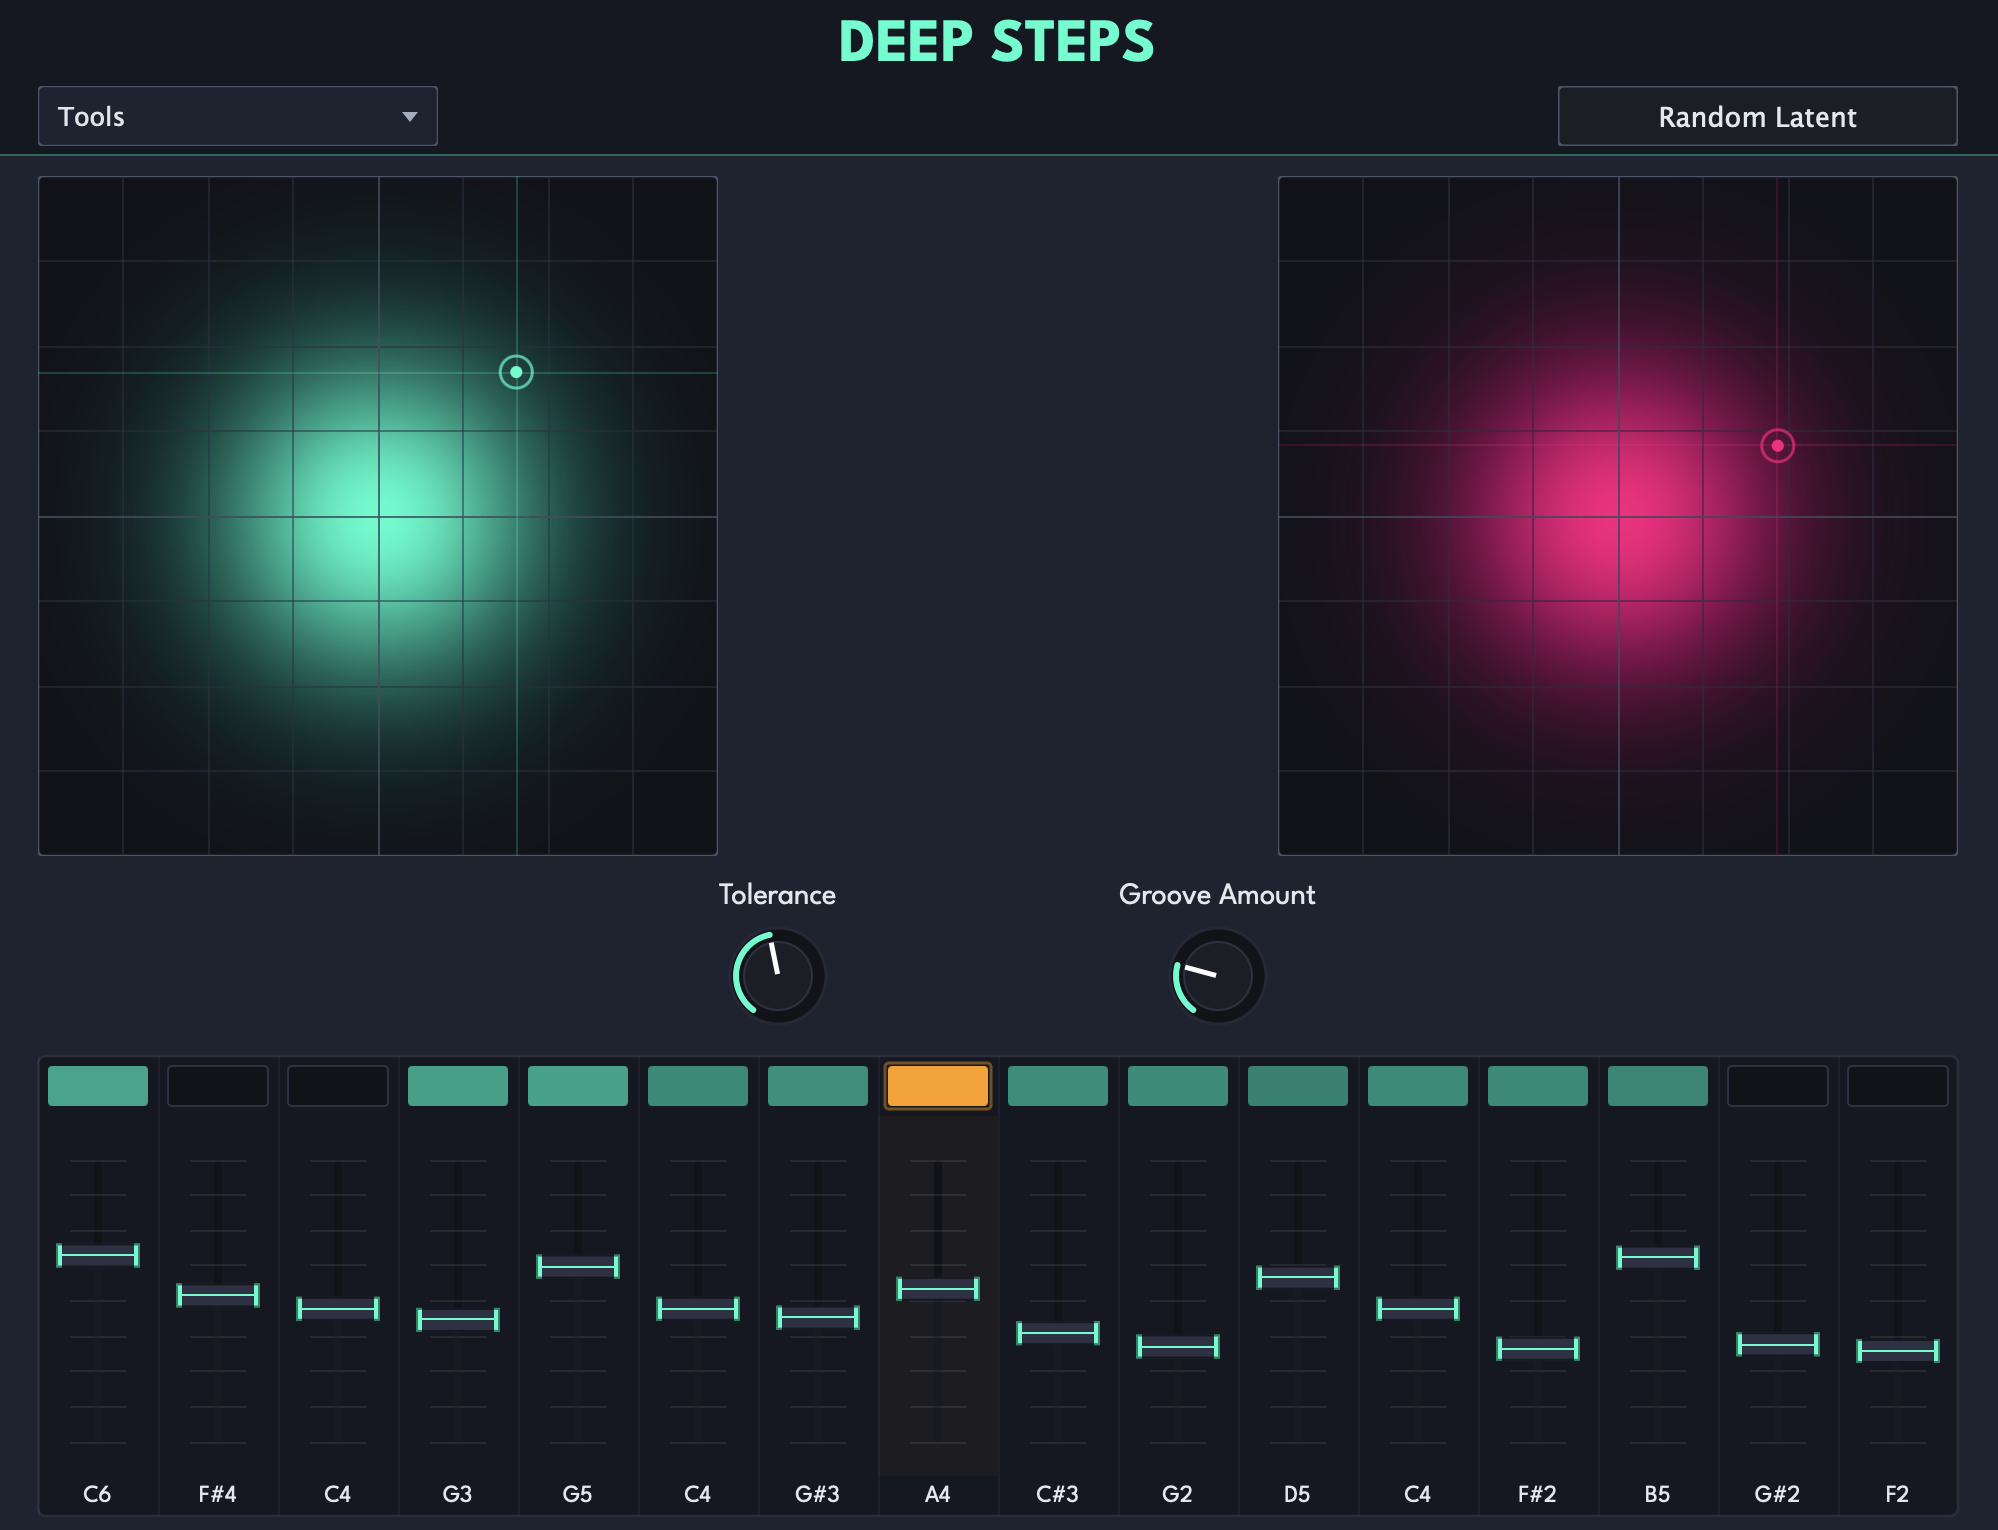
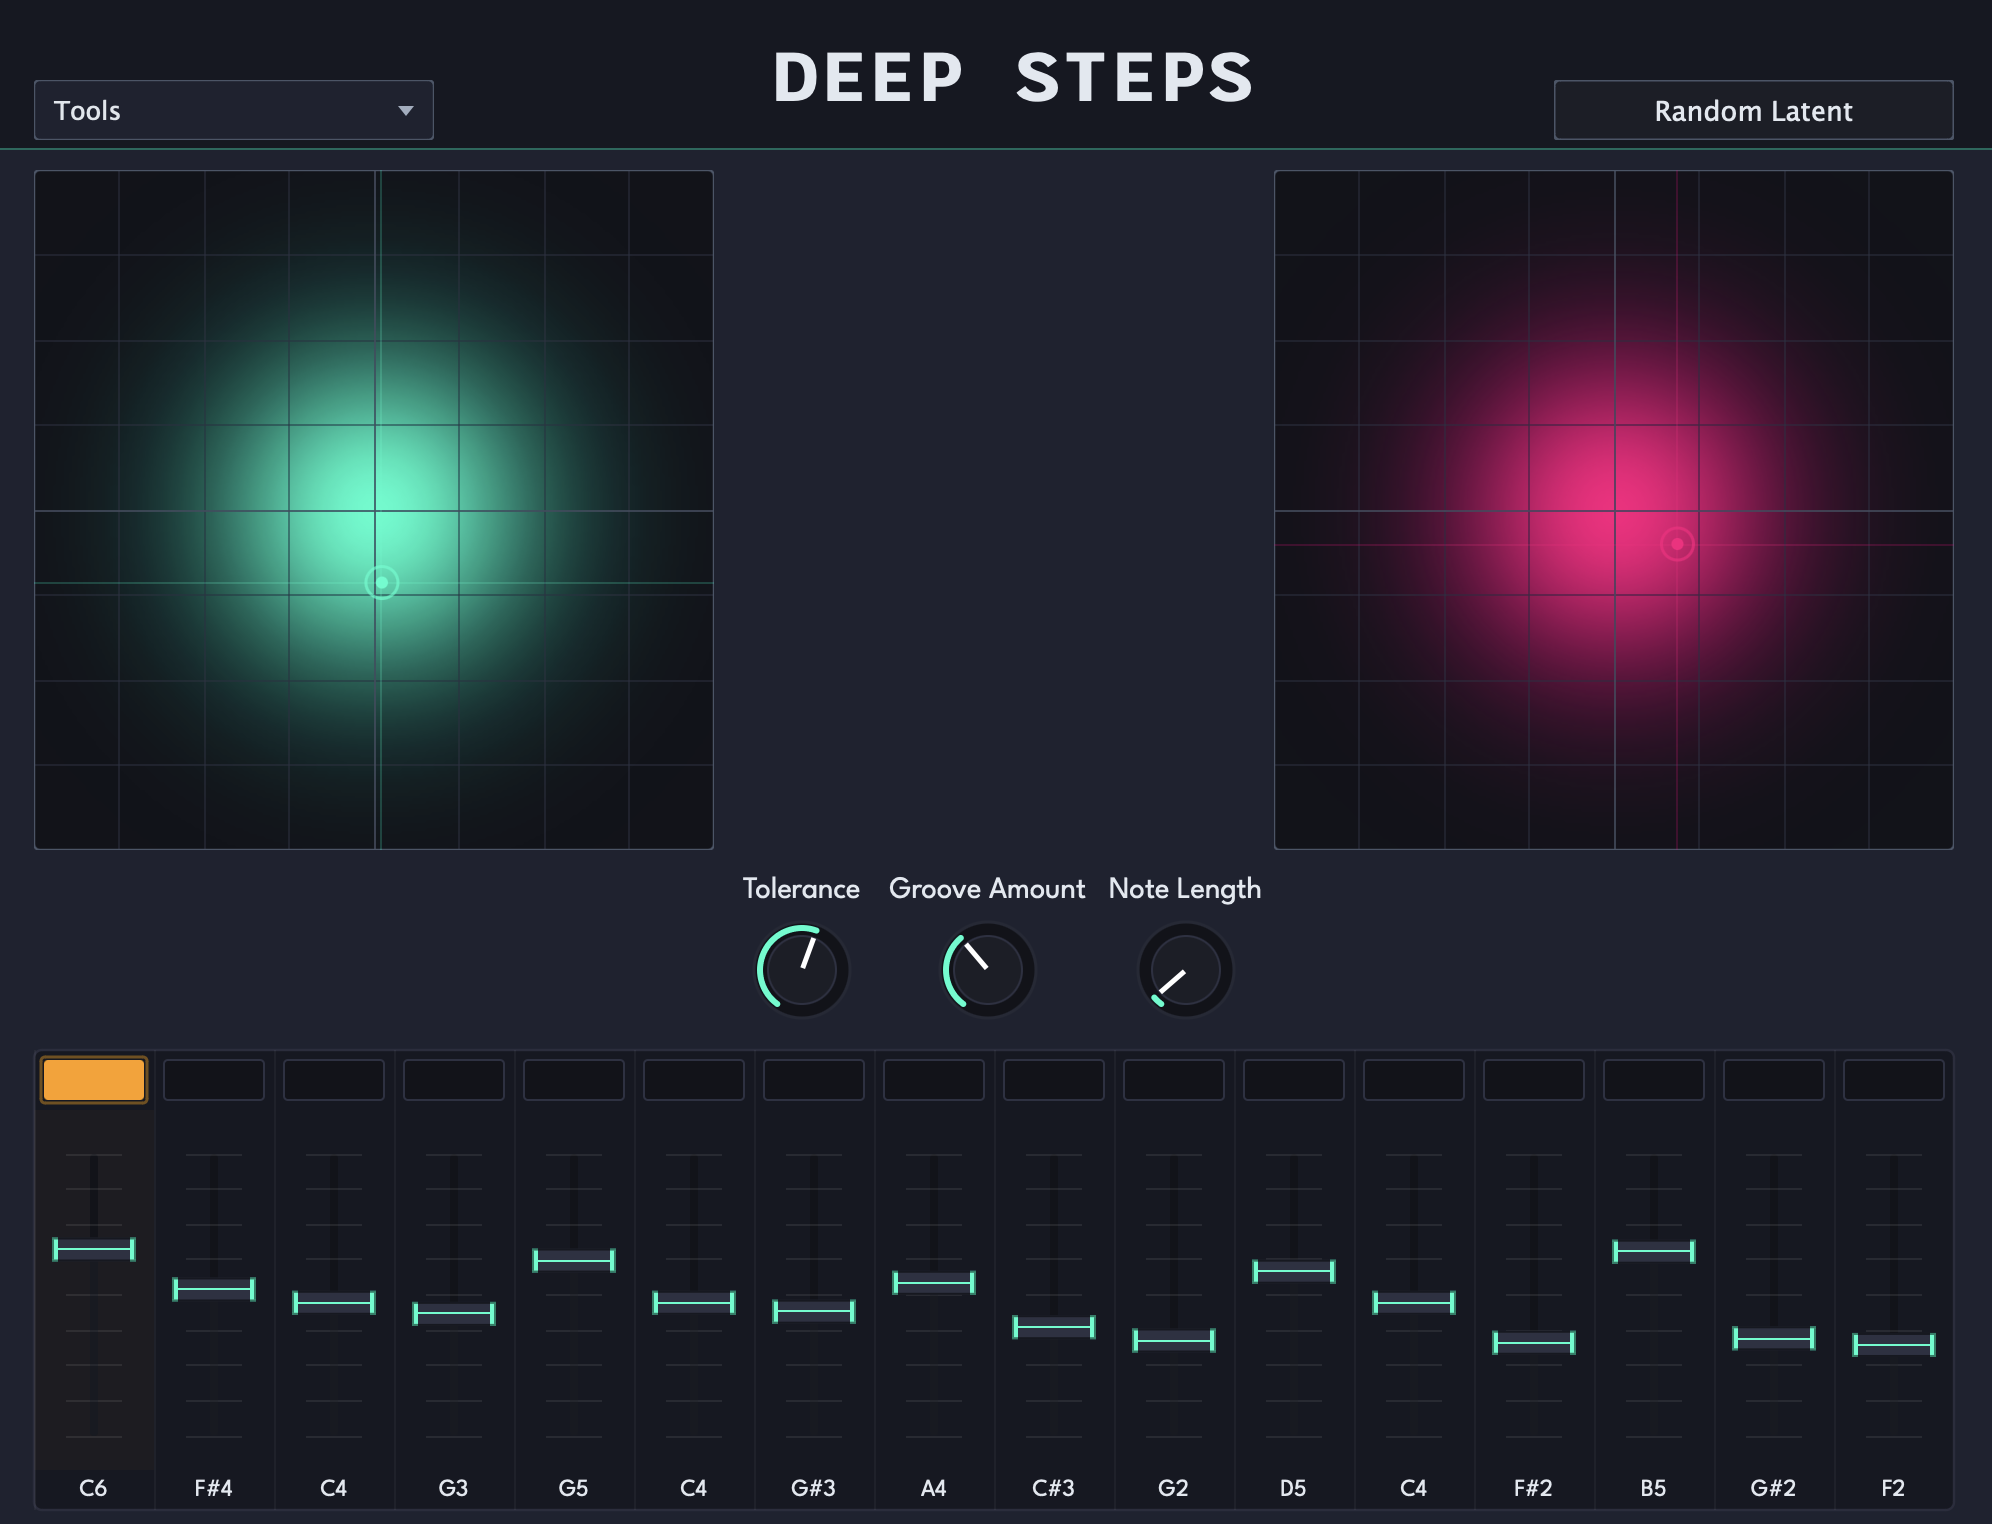
README and new screenshot

diff --git a/README.md b/README.md
@@ -30,16 +30,17 @@ The DAW plugin (re)implementation makes several key improvements on the original
 - Tahn function on the decoder output to cheaply clip range between -1 and 1.
 
 ### Groove Generation 
-- Micro-timings for groove is driven by a regression model which takes the current step generation as input.
+- Micro-timings for groove is driven by a Gaussian regression model which takes the current step generation as input.
 - "Groove" is a continuous timing offset of a 16th note between its neighboring 32nd notes.
-- Groove offsets are re-generated every bar to mimic human playing.
+- Groove offsets are re-sampled from Gaussian distribution every bar to mimic human playing.
 
 ### User Training Data
-- Re-implemented onset detection from scratch with spectral flux and peak picking
-- 
+- Re-implemented onset detection from scratch with spectral flux and peak picking.
+- Saving and loading of training data
 
 ## To Do
 - Release build of VST3
+- GUI controls over training hyperparameters: epoches, 
 - Add model weights as part of the Value Tree State (APVTS) for model recall.
 - Presets implementation: saving and recall of entire plugin state
 - Documentation (any)